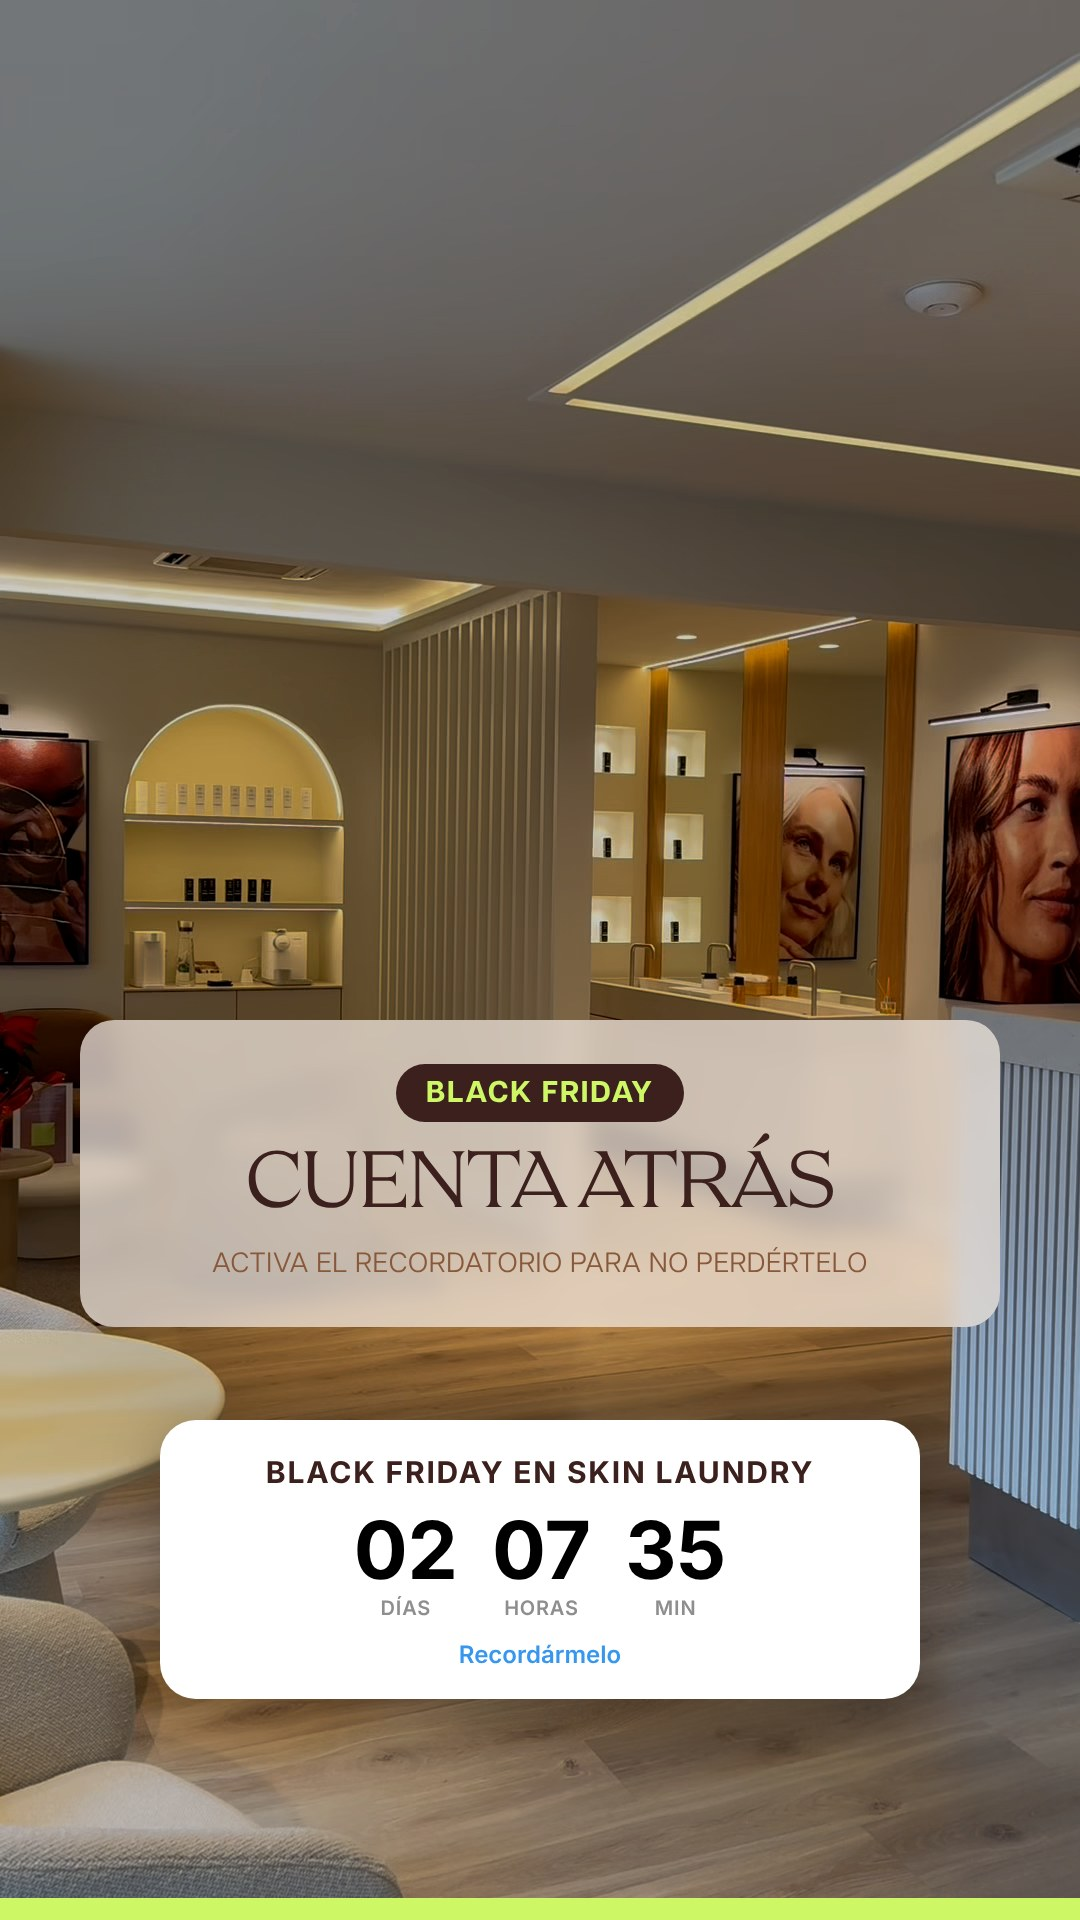
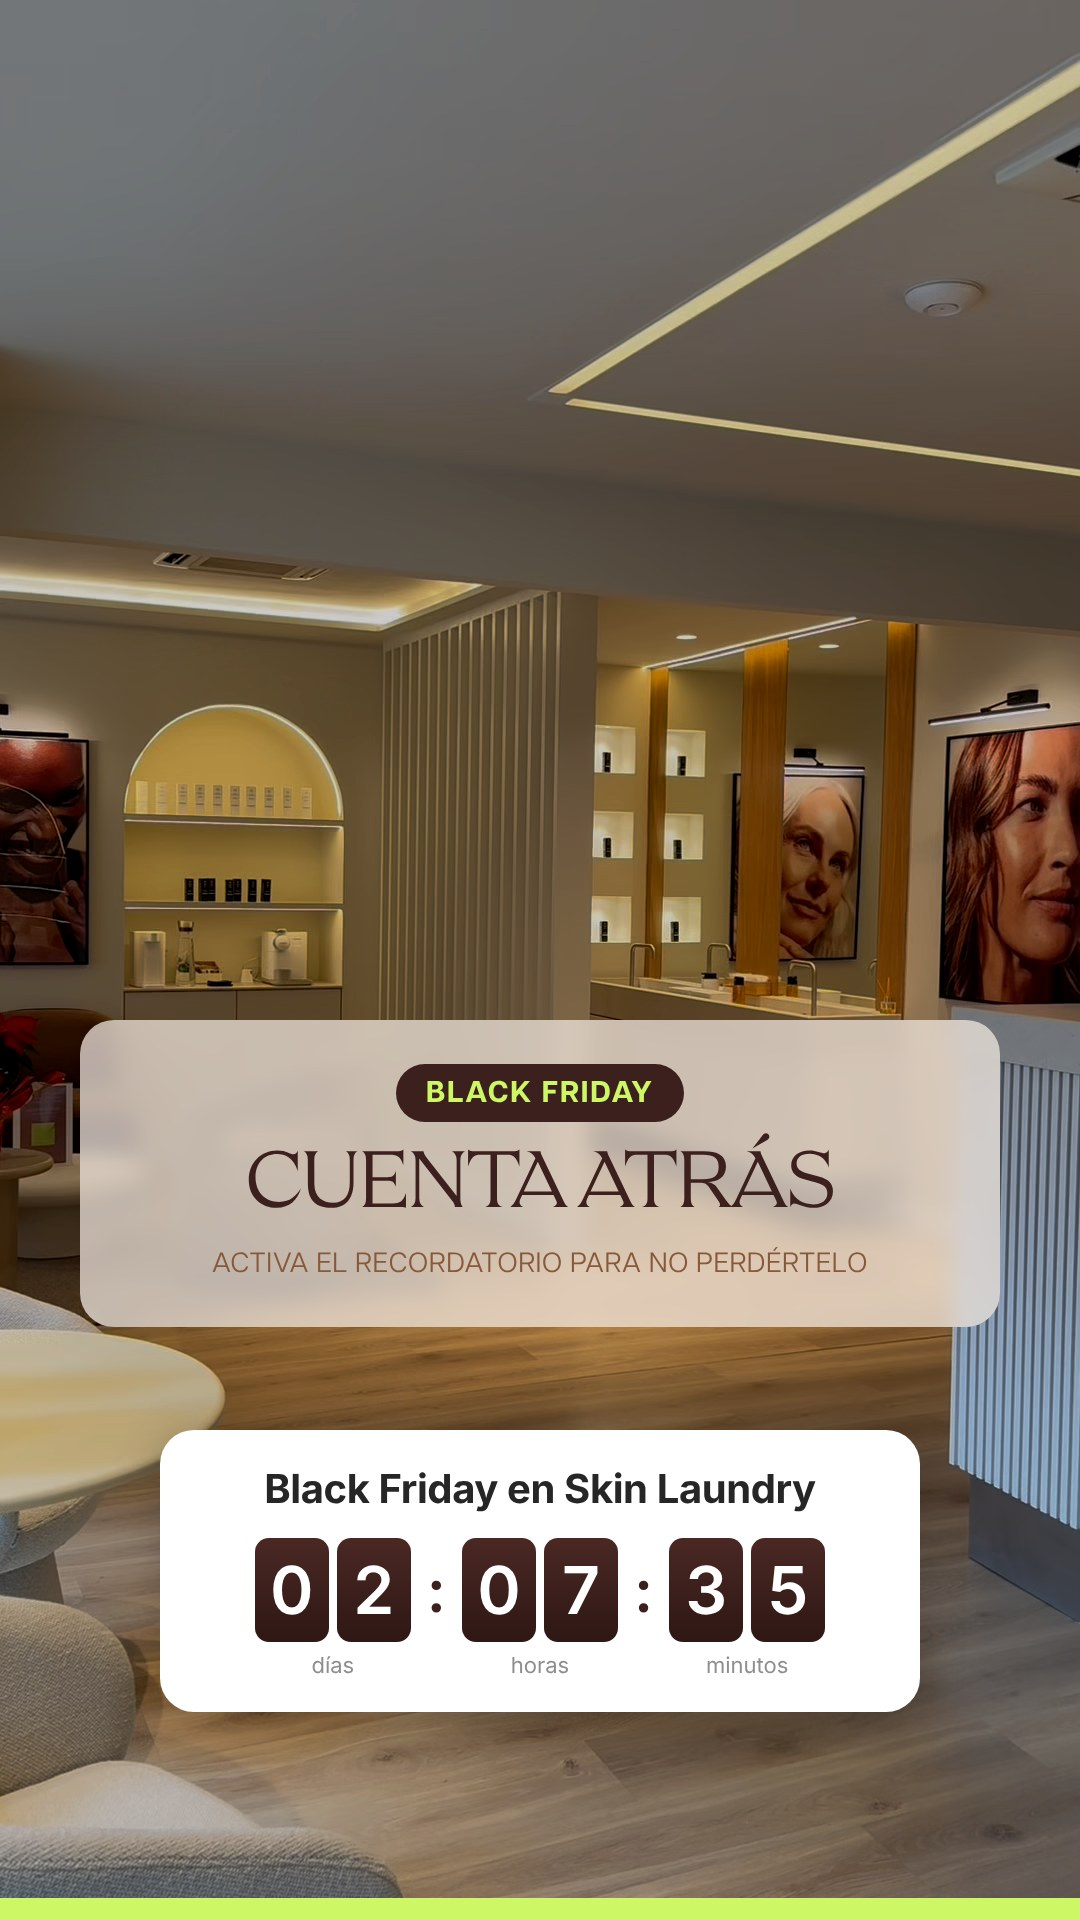
Lunes 16: stickers de Instagram reales en las stories 2 y 3 del teaser
Claude-Session: https://claude.ai/code/session_01JZ4qrB4vBJCM1LriYw1bZU

Changed region(s): [[0.1528, 0.7188, 0.8556, 0.9062]]

diff --git a/public/pitch/skin-laundry-calendario/noviembre/index.html b/public/pitch/skin-laundry-calendario/noviembre/index.html
@@ -886,7 +886,7 @@ const MOSTRAR_STORIES = false;
 const STORIES = {
   /* Pedidas por el cliente el mismo día: teaser del Black Friday (sin enseñar la oferta, que se desvela el 18) */
   16: { titulo:"Teaser Black Friday", hora:"Hoy", estado:"listo",
-        imgs:["/pitch/skin-laundry-calendario/noviembre/img/s16_1.jpg?v=11161302","/pitch/skin-laundry-calendario/noviembre/img/s16_2.jpg?v=11161308","/pitch/skin-laundry-calendario/noviembre/img/s16_3.jpg?v=11161302"],
+        imgs:["/pitch/skin-laundry-calendario/noviembre/img/s16_1.jpg?v=11161302","/pitch/skin-laundry-calendario/noviembre/img/s16_2.jpg?v=11161315","/pitch/skin-laundry-calendario/noviembre/img/s16_3.jpg?v=11161315"],
         items:["Algo bueno está por llegar · lo contamos el miércoles · deslizador de emoji: ¿cuántas ganas tienes? 😍","Tu lista de deseos: ¿hay algo para tu piel este año? · caja de preguntas: ¿qué tratamiento te pedirías?","Cuenta atrás · sticker de cuenta atrás hasta el miércoles 18 a las 19:30 (sale el post) · activa el recordatorio"] },
   /* Pack que iba a salir el miércoles 11 y no se publicó: pasa al viernes 13 */
   13: { titulo:"Pack de stories", hora:"12:00h", estado:"listo",
